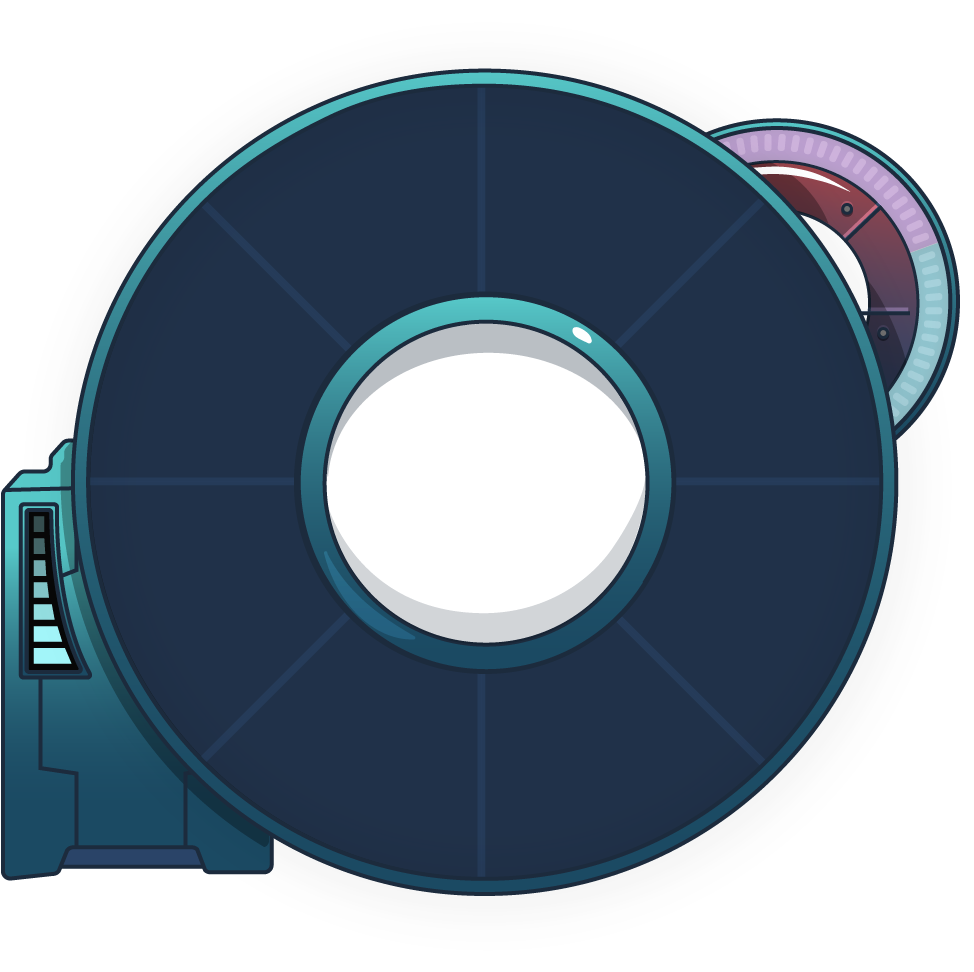
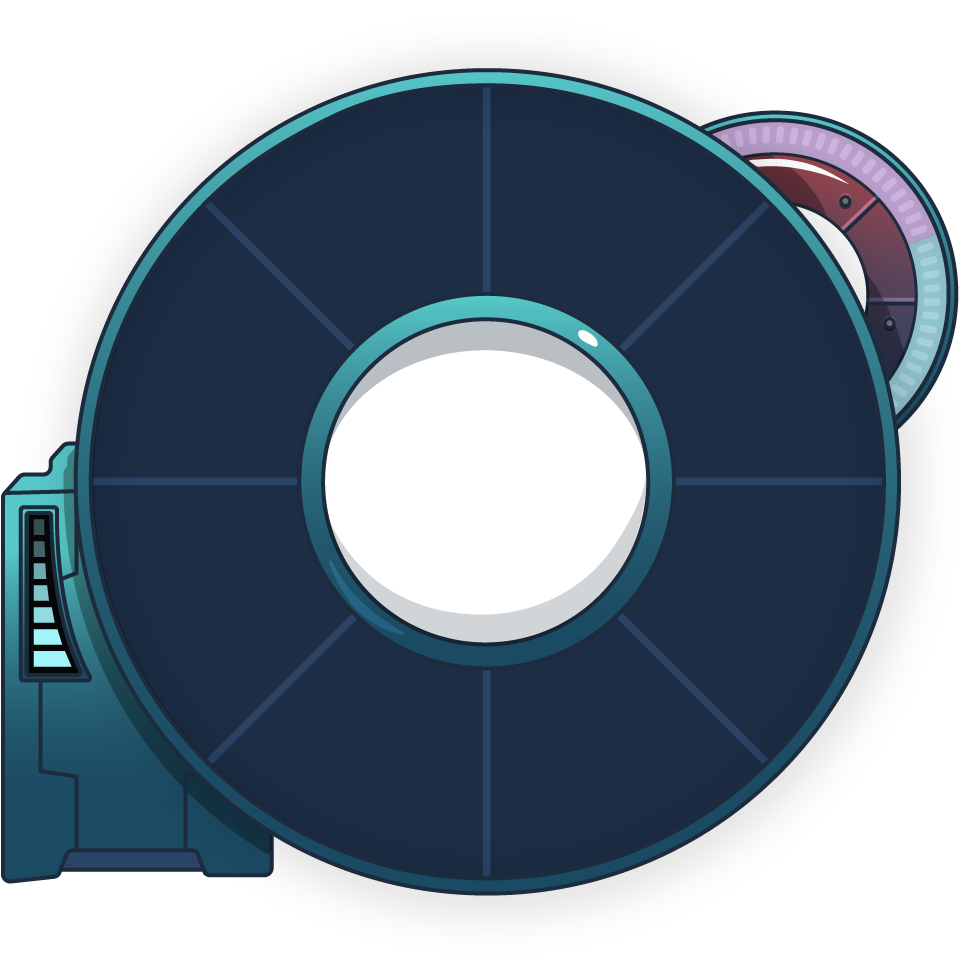
use 8 different selecting image

diff --git a/src/games/automata/components/MainMenuSelectingFrame.tsx b/src/games/automata/components/MainMenuSelectingFrame.tsx
@@ -1,7 +1,14 @@
 import React from "react";
 import currentFrame from "../images/MainMenu/selecting_frame.png";
 import currentFrameStop from "../images/MainMenu/selecting_frame_red.png";
-import selectingFrame from "../images/MainMenu/select.png";
+import selectingFrame1 from "../images/MainMenu/select1.png";
+import selectingFrame2 from "../images/MainMenu/select2.png";
+import selectingFrame3 from "../images/MainMenu/select3.png";
+import selectingFrame4 from "../images/MainMenu/select4.png";
+import selectingFrame5 from "../images/MainMenu/select5.png";
+import selectingFrame6 from "../images/MainMenu/select6.png";
+import selectingFrame7 from "../images/MainMenu/select7.png";
+import selectingFrame8 from "../images/MainMenu/select8.png";
 
 import "./MainMenuSelectingFrame.css";
 
@@ -9,6 +16,22 @@ interface Props {
   order: number | null;
   isCurrentProgram: boolean;
   isStop: boolean;
+}
+
+function getSelectingFrameDiv(order: number) {
+  const selectingFrames = [
+    selectingFrame1,
+    selectingFrame2,
+    selectingFrame3,
+    selectingFrame4,
+    selectingFrame5,
+    selectingFrame6,
+    selectingFrame7,
+    selectingFrame8,
+  ];
+  return (
+    <img src={selectingFrames[order]} className="main-selecting-frame-image" />
+  );
 }
 
 const MainMenuSelectingFrame = ({ order, isCurrentProgram, isStop }: Props) => {
@@ -24,12 +47,6 @@ const MainMenuSelectingFrame = ({ order, isCurrentProgram, isStop }: Props) => {
     50 - Math.sin((angle * Math.PI) / 180) * currentFrameRadius;
   const currentFrameXPosition =
     50 + Math.cos((angle * Math.PI) / 180) * currentFrameRadius;
-
-  const selectingRadius = 30;
-  const selectingYPosition =
-    50 - Math.sin((angle * Math.PI) / 180) * selectingRadius;
-  const selectingXPosition =
-    50 + Math.cos((angle * Math.PI) / 180) * selectingRadius;
 
   const currentFrameDiv = () => {
     return (
@@ -53,20 +70,8 @@ const MainMenuSelectingFrame = ({ order, isCurrentProgram, isStop }: Props) => {
 
   const selectingFrameDiv = () => {
     return (
-      <div
-        className="main-selecting-frame-container"
-        style={{
-          top: `${selectingYPosition}%`,
-          left: `${selectingXPosition}%`,
-        }}
-      >
-        <img
-          src={selectingFrame}
-          className="main-selecting-frame-image"
-          style={{
-            transform: `translate(-50%, -50%) rotate(${rotation}deg)`,
-          }}
-        />
+      <div className="main-selecting-frame-container">
+        {getSelectingFrameDiv(order)}
       </div>
     );
   };

diff --git a/src/games/automata/components/MainMenu.css b/src/games/automata/components/MainMenu.css
@@ -21,23 +21,13 @@
     width: fit-content;
     height: 512px;
     width: 550px;
-    /* 
-    height: 100%;
-    min-height: 512px;
-    min-width: 550px;
-    max-height: min(100%, calc((100vw - 190px * 2) *  486 / 550));
-    aspect-ratio: 550 / 486; 
-    background-color: lightblue;
-    */
     position: relative;
 }
 
 .main-info-container{
     position: absolute;
-    width: 37%;
-    aspect-ratio: 407 / 251;
-    left: 2.5%;
-    top: 2.5%;
+    height: 125px;
+    width: 203px;
 }
 
 .main-info-background {
@@ -51,9 +41,9 @@
 
 .main-circle-container {
     position: absolute;
-    width: 88.4%;
-    height: 100%;
-    right: 2.5%;
+    height: 486px;
+    width: 488px;
+    left: 31px;
 }
 
 .main-circle-background {

diff --git a/src/games/automata/components/MainMenuSelectingFrame.css b/src/games/automata/components/MainMenuSelectingFrame.css
@@ -15,9 +15,16 @@
 
 .main-selecting-frame-container {
     position: absolute;
-    transform: translate(-50%, -50%);
-    width: 145px;
-    height: 108px;
+    width: 397px;
+    height: 396px;
+    left: 46px;
+    top: 44px;
+}
+
+@keyframes selecting-shining {
+    0% { opacity: 1; }
+    50% { opacity: 0.7; }
+    100% { opacity: 1; }
 }
 
 .main-selecting-frame-image {
@@ -26,4 +33,6 @@
     height: 100%;
     top: 50%;
     left: 50%;
+    transform: translate(-50%, -50%);
+    animation: selecting-shining 1s infinite ease-in-out;
 }
